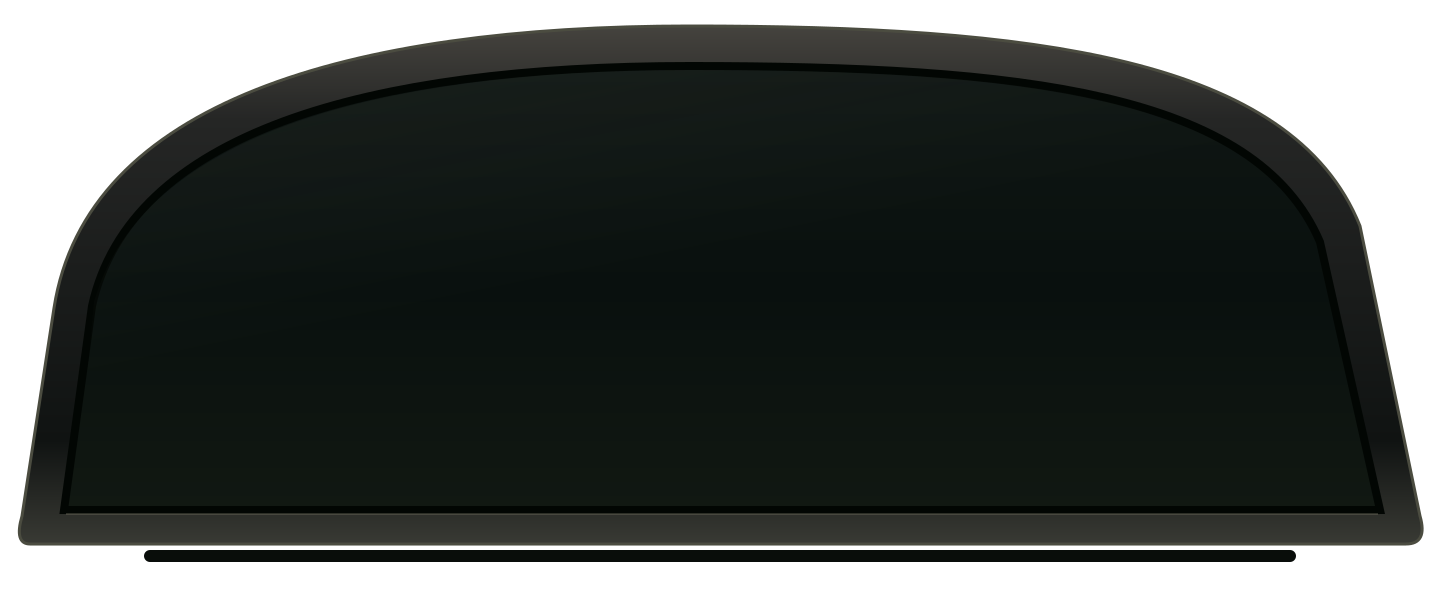
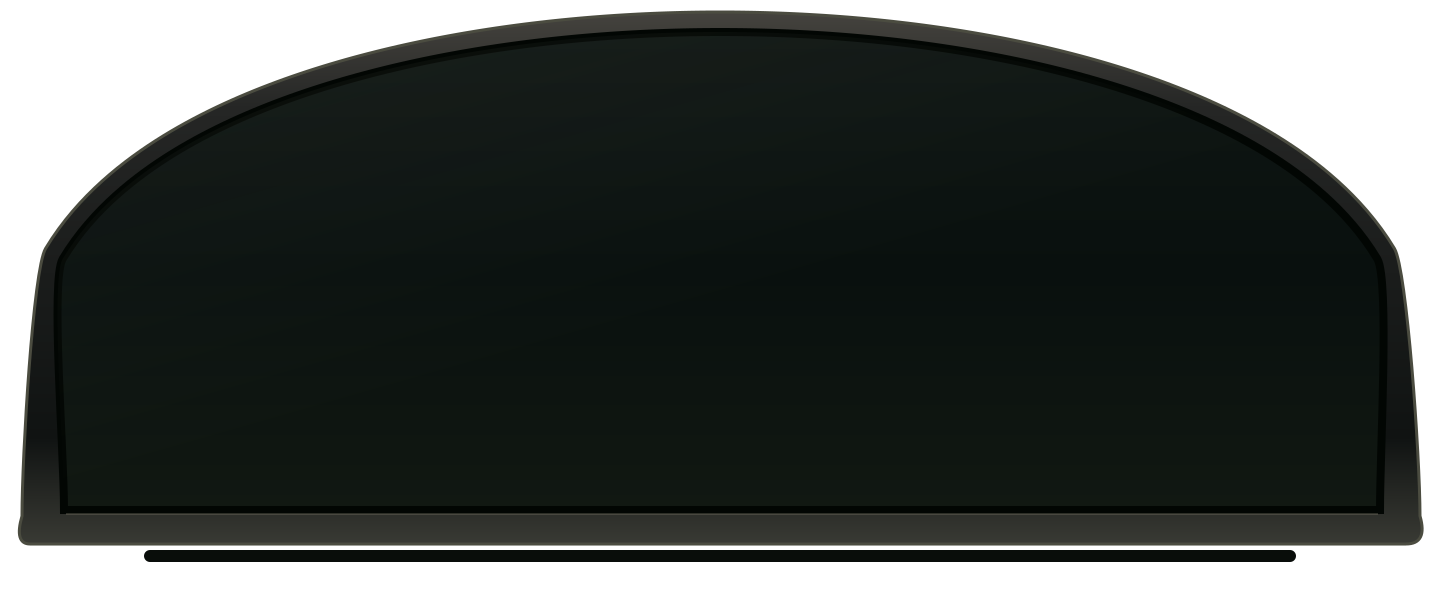
fix(hud): align AP1 bezel and RPM band on one shared arc

Changed region(s): [[0.1875, 0.0, 1.0, 0.84], [0.0, 0.18, 0.1875, 0.84]]

diff --git a/hud_overlay/ap1_rev_arc/tests/unit/ap1ArcGeometry.test.ts b/hud_overlay/ap1_rev_arc/tests/unit/ap1ArcGeometry.test.ts
@@ -1,0 +1,74 @@
+import { describe, expect, it } from 'vitest';
+// @ts-expect-error Standalone HUD geometry is shared with the asset generator.
+import { ARC, ARC_LENGTH, arcFrame, arcPoint, arcSamples, arcSegment } from '../../arc-geometry.js';
+const ratios = Array.from({ length: 101 }, (_, i) => i / 100);
+const dot = (a: any, b: any) => a.x * b.x + a.y * b.y;
+const difference = (a: any, b: any) => ({ x: a.x - b.x, y: a.y - b.y });
+const magnitude = (p: any) => Math.hypot(p.x, p.y);
+
+describe('AP1 shared upper arc geometry', () => {
+  it('uses orthonormal frames and arc-length progression across the full curve', () => {
+    for (const ratio of ratios) {
+      const { normal, tangent } = arcFrame(ratio);
+      expect(magnitude(normal)).toBeCloseTo(1, 10);
+      expect(magnitude(tangent)).toBeCloseTo(1, 10);
+      expect(dot(normal, tangent)).toBeCloseTo(0, 10);
+    }
+    const lengths = ratios.slice(1).map((ratio, i) => magnitude(difference(arcPoint(ratio, ARC.bandTop / 2), arcPoint(ratios[i], ARC.bandTop / 2))));
+    expect(Math.min(...lengths) / Math.max(...lengths)).toBeGreaterThan(.99);
+    expect(lengths.reduce((a, b) => a + b, 0) / ARC_LENGTH).toBeCloseTo(1, 3);
+  });
+  it('keeps band, labels and both bezel contours at constant normal gaps including endpoints', () => {
+    for (const ratio of ratios) {
+      const { point, normal, tangent } = arcFrame(ratio);
+      for (const offset of [ARC.bandTop, ARC.labelCenter, ARC.faceEdge, ARC.outerEdge]) {
+        const delta = difference(arcPoint(ratio, offset), point);
+        expect(dot(delta, normal)).toBeCloseTo(offset, 9);
+        expect(dot(delta, tangent)).toBeCloseTo(0, 9);
+      }
+      const gap = difference(arcPoint(ratio, ARC.faceEdge), arcPoint(ratio, ARC.bandTop));
+      expect(magnitude(gap)).toBeCloseTo(ARC.faceEdge - ARC.bandTop, 9);
+      const rim = difference(arcPoint(ratio, ARC.outerEdge), arcPoint(ratio, ARC.faceEdge));
+      expect(magnitude(rim)).toBeCloseTo(ARC.outerEdge - ARC.faceEdge, 9);
+    }
+  });
+  it('has parallel local tangents on every offset contour without shoulder distortion', () => {
+    for (const ratio of ratios.slice(1, -1)) {
+      const { tangent } = arcFrame(ratio);
+      for (const offset of [0, ARC.bandTop, ARC.faceEdge, ARC.outerEdge]) {
+        const derivative = difference(arcPoint(ratio + .0001, offset), arcPoint(ratio - .0001, offset));
+        expect(dot(derivative, tangent) / magnitude(derivative)).toBeGreaterThan(.99999);
+      }
+    }
+  });
+  it('keeps glyph envelopes between the band and fascia at both ends and the crown', () => {
+    const clearance = Math.min(ARC.labelCenter - ARC.bandTop, ARC.faceEdge - ARC.labelCenter);
+    // Label radius includes the narrow typeface two-digit width; compare margins,
+    // not hardcoded draw coordinates or Canvas calls.
+    expect(ARC.faceEdge - ARC.labelCenter).toBeGreaterThan(ARC.labelRadius);
+    expect(clearance).toBeGreaterThan(ARC.labelRadius);
+    for (const ratio of [0, .5, 1]) {
+      const a = arcPoint(ratio, ARC.labelCenter);
+      expect(a.x - ARC.labelRadius).toBeGreaterThan(0);
+      expect(a.x + ARC.labelRadius).toBeLessThan(2 * ARC.centerX);
+      expect(a.y - ARC.labelRadius).toBeGreaterThan(0);
+    }
+  });
+  it('makes every segment span the same radial thickness and preserves bilateral symmetry', () => {
+    const count = 60;
+    for (let i = 0; i < count; i++) {
+      const [a, b, c, d] = arcSegment(i, count);
+      expect(magnitude(difference(d, a))).toBeCloseTo(ARC.bandTop, 9);
+      expect(magnitude(difference(c, b))).toBeCloseTo(ARC.bandTop, 9);
+    }
+    for (const offset of [0, ARC.faceEdge, ARC.outerEdge]) {
+      for (const ratio of ratios) {
+        const left = arcPoint(ratio, offset), right = arcPoint(1 - ratio, offset);
+        expect(left.x + right.x).toBeCloseTo(2 * ARC.centerX, 7);
+        expect(left.y).toBeCloseTo(right.y, 7);
+      }
+    }
+    expect(arcSamples(ARC.faceEdge)[0]).toEqual(arcPoint(0, ARC.faceEdge));
+    expect(arcSamples(ARC.faceEdge).at(-1)).toEqual(arcPoint(1, ARC.faceEdge));
+  });
+});

diff --git a/hud_overlay/ap1_rev_arc/arc-geometry.js b/hud_overlay/ap1_rev_arc/arc-geometry.js
@@ -1,0 +1,58 @@
+// One geometric construction owns the upper bezel, LCD band and scale labels.
+// The curve is parameterized by arc length; offsets follow its unit normal.
+export const ARC = Object.freeze({
+  centerX: 360, centerY: 183, radiusX: 290, radiusY: 113, endAngle: .23,
+  bandTop: 18, labelCenter: 34, labelRadius: 15, faceEdge: 54, outerEdge: 64,
+});
+const TABLE_STEPS = 512;
+const span = Math.PI - 2 * ARC.endAngle;
+function frameAtAngle(angle) {
+  const point = { x: ARC.centerX + ARC.radiusX * Math.cos(angle), y: ARC.centerY - ARC.radiusY * Math.sin(angle) };
+  const dx = ARC.radiusX * Math.sin(angle), dy = ARC.radiusY * Math.cos(angle);
+  const length = Math.hypot(dx, dy);
+  const tangent = { x: dx / length, y: dy / length };
+  return { point, tangent, normal: { x: tangent.y, y: -tangent.x } };
+}
+// Equal-length sampling follows the middle of the illuminated strip, keeping
+// segment density even instead of crowding the steeper shoulders.
+function stripMiddleAtAngle(angle) {
+  const { point, normal } = frameAtAngle(angle);
+  return { x: point.x + normal.x * ARC.bandTop / 2, y: point.y + normal.y * ARC.bandTop / 2 };
+}
+const table = [{ angle: Math.PI - ARC.endAngle, length: 0 }];
+let prior = stripMiddleAtAngle(table[0].angle);
+for (let i = 1; i <= TABLE_STEPS; i++) {
+  const angle = Math.PI - ARC.endAngle - span * i / TABLE_STEPS;
+  const next = stripMiddleAtAngle(angle);
+  table.push({ angle, length: table[i - 1].length + Math.hypot(next.x - prior.x, next.y - prior.y) });
+  prior = next;
+}
+export const ARC_LENGTH = table.at(-1).length;
+const bounded = value => Number.isFinite(value) ? Math.max(0, Math.min(1, value)) : 0;
+
+export function arcFrame(ratio) {
+  const target = bounded(ratio) * ARC_LENGTH;
+  let low = 0, high = TABLE_STEPS;
+  while (high - low > 1) {
+    const middle = (low + high) >> 1;
+    if (table[middle].length < target) low = middle;
+    else high = middle;
+  }
+  const fraction = (target - table[low].length) / (table[high].length - table[low].length);
+  const angle = table[low].angle + (table[high].angle - table[low].angle) * fraction;
+  return frameAtAngle(angle);
+}
+
+export function arcPoint(ratio, outward = 0) {
+  const { point, normal } = arcFrame(ratio);
+  return { x: point.x + normal.x * outward, y: point.y + normal.y * outward };
+}
+
+export function arcSegment(index, count, fill = .72) {
+  const start = index / count, end = (index + fill) / count;
+  return [arcPoint(start), arcPoint(end), arcPoint(end, ARC.bandTop), arcPoint(start, ARC.bandTop)];
+}
+
+export function arcSamples(outward, count = 180) {
+  return Array.from({ length: count + 1 }, (_, i) => arcPoint(i / count, outward));
+}

diff --git a/hud_overlay/ap1_rev_arc/renderer.js b/hud_overlay/ap1_rev_arc/renderer.js
@@ -1,4 +1,5 @@
 import { SEGMENT_COUNT, segmentState, tachometerTicks } from './model.js';
+import { ARC, arcPoint, arcSegment } from './arc-geometry.js';
 const SVG_NS = 'http://www.w3.org/2000/svg';
 const DIGITS = { '0': 'ab cdef'.replaceAll(' ', ''), '1': 'bc', '2': 'abdeg', '3': 'abcdg', '4': 'bcfg', '5': 'acdfg', '6': 'acdefg', '7': 'abc', '8': 'abcdefg', '9': 'abcdfg', '-': 'g', ' ': '' };
 // Original seven-segment glyphs, no redistributed instrument font.
@@ -11,7 +12,6 @@ const GLYPHS = {
   f: '3,8 9,14 9,36 3,42 0,36 0,12',
   g: '10,39 48,39 54,45 48,51 10,51 4,45',
 };
-const point = ratio => ({ x: 77 + ratio * 574, y: 157 - 87 * 4 * ratio * (1 - ratio) });
 
 export function createRenderer(document, container) {
   const el = id => document.getElementById(id);
@@ -24,9 +24,8 @@ export function createRenderer(document, container) {
   const set = (node, key, value) => { if (node.getAttribute(key) !== String(value)) node.setAttribute(key, String(value)); };
   const text = (id, value) => { const node = el(id); if (node.textContent !== value) node.textContent = value; };
   const bars = Array.from({ length: SEGMENT_COUNT }, (_, i) => {
-    const left = point(i / SEGMENT_COUNT);
-    const right = point((i + .72) / SEGMENT_COUNT);
-    return create('polygon', { points: `${left.x},${left.y} ${right.x},${right.y} ${right.x},${right.y - 18} ${left.x},${left.y - 18}`, class: 'ap1-segment' }, el('rpmSegments'));
+    const points = arcSegment(i, SEGMENT_COUNT).map(p => `${p.x},${p.y}`).join(' ');
+    return create('polygon', { points, class: 'ap1-segment' }, el('rpmSegments'));
   });
   const digits = Array.from({ length: 3 }, (_, i) => {
     const group = create('g', { transform: `translate(${i * 73} 0)` }, el('speedDigits'));
@@ -42,9 +41,9 @@ export function createRenderer(document, container) {
         lastTickKey = tickKey;
         el('rpmTicks').replaceChildren();
         for (const tick of tachometerTicks(frame.maxRpm)) {
-          const p = point(tick.ratio);
+          const p = arcPoint(tick.ratio, ARC.labelCenter);
           const hot = frame.redlineRpm !== null && tick.rpm >= frame.redlineRpm;
-          const node = create('text', { x: p.x + 2, y: p.y - 27, 'text-anchor': 'middle', class: `ap1-tick-label${hot ? ' ap1-redline-tick' : ''}` }, el('rpmTicks'));
+          const node = create('text', { x: p.x, y: p.y, 'text-anchor': 'middle', 'dominant-baseline': 'central', class: `ap1-tick-label${hot ? ' ap1-redline-tick' : ''}` }, el('rpmTicks'));
           node.textContent = tick.label;
         }
       }

diff --git a/hud_overlay/ap1_rev_arc/tests/PR_BODY.md b/hud_overlay/ap1_rev_arc/tests/PR_BODY.md
@@ -1,5 +1,7 @@
 ### Summary of Changes
 
+**目前修訂狀態：** 依使用者指出的上方 RPM 弧表／外框曲率不一致，已改為單一橢圓弧、共享 unit normal offset 與色帶中心線等弧長分段。原本獨立拋物線與非對稱 Bézier 的取樣最近間距約18.9–41.9設計單位；修訂版上緣至內框法線間距固定36。速度、檔位、燃油與其他讀值 anchor／容器位置不變。新增5個幾何 invariant tests，Style共39 cases；全量158 files／1144 tests passed，1 skipped，build:web-hud pass。本輪等待新的 actual CI 截圖與使用者 review；下方舊預覽／遠端 run 屬修正前歷史紀錄，不代表此次弧度修正已驗收或使用者已核准整個樣式。
+
 新增 `ap1_rev_arc` HUD 原型，以 **1999 Honda S2000 AP1 日本上市初期的琥珀數位儀表**為明確研究對象，回應先從具有辨識度的真實車款儀表發展新樣式的方向。
 
 整體採低寬煙燻黑儀表罩、密集琥珀 LCD 分段、上拱轉速帶與中央大型速度；左下新增適合遊戲的低調檔位，右下呈現有實際資料的燃油。目標是喜歡 1990 年代末 Honda/JDM、高轉自然進氣與簡潔道路駕駛 HUD 的玩家。
@@ -32,6 +34,8 @@
 - **Backend / Python:** 未修改，不以不相關測試取代前端 gate
 
 ### Living Changelog & Review Iterations
+
+- 2026-10-05（Bagley as Codex）：使用者指出弧表與外框曲率不一致。先前像素檢查漏掉此結構問題；本輪以 arc-geometry.js 同時產生 RPM 色帶、刻度與框線，重新匯出原創 fascia。加入 compact／default、DPR1／DPR2、兩端文字容納與讀值相對位置的 CI 檢查；既有實際截圖保留供前後對照，等待新產物複查
 
 - 2026-10-05（Bagley as Codex）：以官方 1999 Fact Book 研究原型並實際查看座艙圖片；完成原創外殼、遙測與生命週期
 - 2026-10-05（Bagley as Codex）：依獨立檢查補上 timestamp replay 斷線偵測、負值倒車、max_rpm、null payload/config、legacy unit fallback；擴充純行為測試

diff --git a/docs/hud/ap1-rev-arc.md b/docs/hud/ap1-rev-arc.md
@@ -1,5 +1,7 @@
 # AP1 Rev Arc：1999 Honda S2000 AP1 儀表原型
 
+> 弧度修訂中：使用者指出上方 RPM 弧表與外框曲率不一致。本輪共享曲線已實作，待新 CI 截圖與像素複查；本文以下的既有預覽與遠端證據仍屬修正前版本。其餘讀值區域暫時保留，不代表使用者已最終核准整個樣式。
+
 ## 原型與來源
 
 本樣式以 **1999 年 Honda S2000 AP1，日本上市初期儀表**為視覺研究對象。不是美規年份的混稱，也不是後期 AP2 儀表重製。
